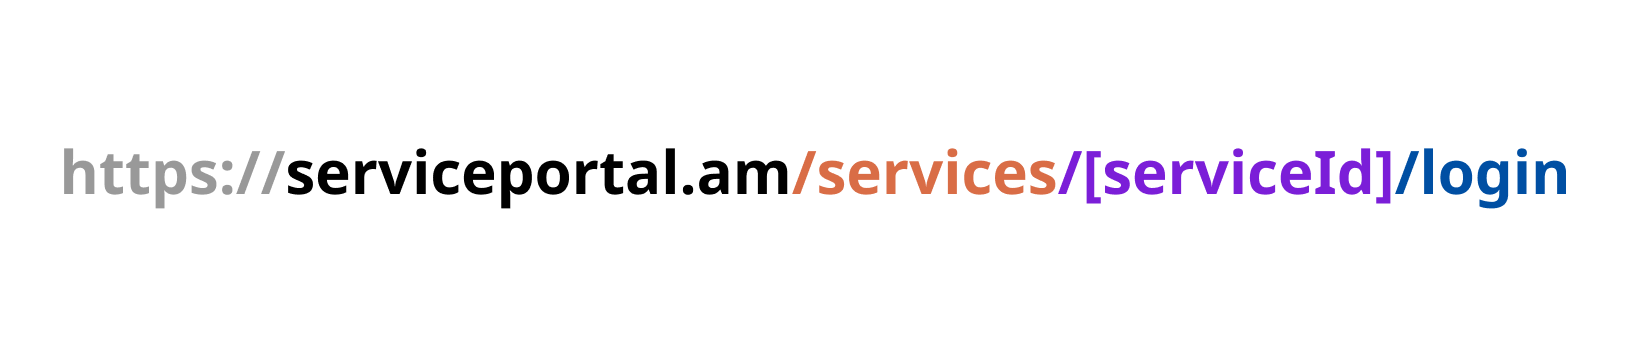
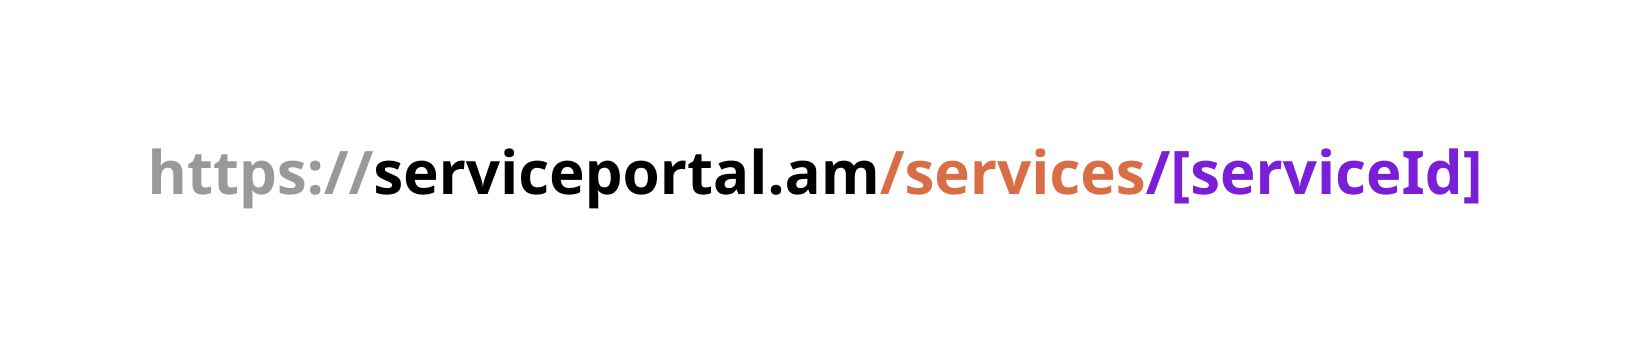
docs: update unique service link standard by removing the /login directive that is unnecessary

Changed region(s): [[0.0307, 0.4386, 0.981, 0.614]]

diff --git a/docs/unique-service-links/en.md b/docs/unique-service-links/en.md
@@ -1,7 +1,7 @@
 # Unique Service Links for Hartak.am
 
 **Integration Document** \
-February 2025 v1.0
+April 2025 v2.0
 
 ## Table of Contents
 
@@ -52,8 +52,6 @@ ISAA's Technical Team recommends the following structure for unique service link
 - **Directory <span style="color:#d96d46">/services**</span>: Specifies that the link pertains to a service.
 
 - **<span style="color:#7b1ed8">/\[serviceId\]</span>**: Service ID from the National Service Catalog(Get Service ID by contacting ISAA via [service.admin@isaa.am](mailto:service.admin@isaa.am).
-
-- **<span style="color:#004fa3">/login<span>**: Indicates that the link will redirect users to the YesEm Authentication Portal immediately upon access.
 
 A standardized unique service link format is important to ensure
 consistency across services and portals and simplify maintenance in the

diff --git a/docs/user-satisfaction-widget/hy.md b/docs/user-satisfaction-widget/hy.md
@@ -1,7 +1,7 @@
 # Օգտատերերի գոհունակության գնահատման վահանակի (Widget) ինտեգրման ուղեցույց
 
 **Ինտեգրման ուղեցույց** \
-Ապրիլ 202ջ v2.0
+Ապրիլ 2025 v2.0
 
 ## Բովանդակություն
 
